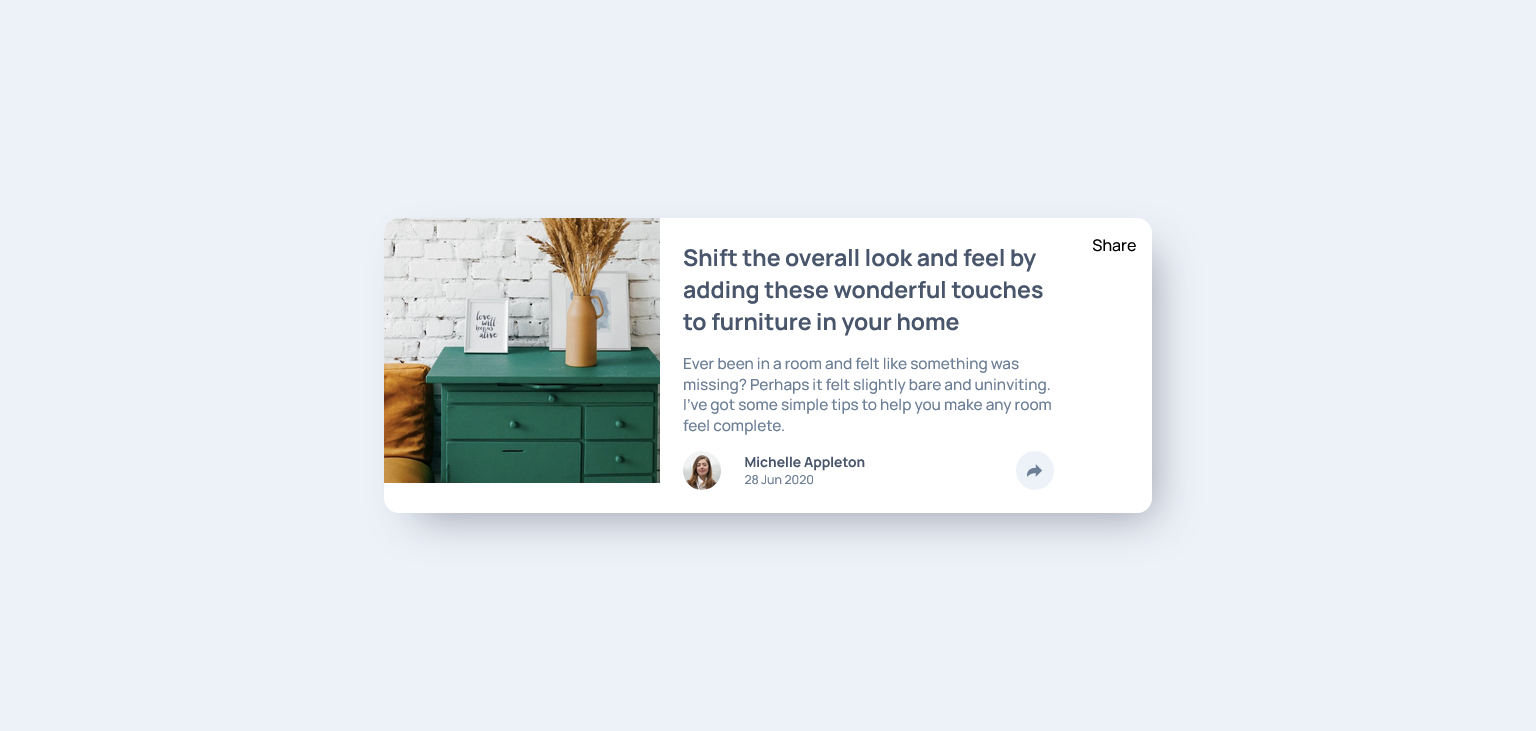
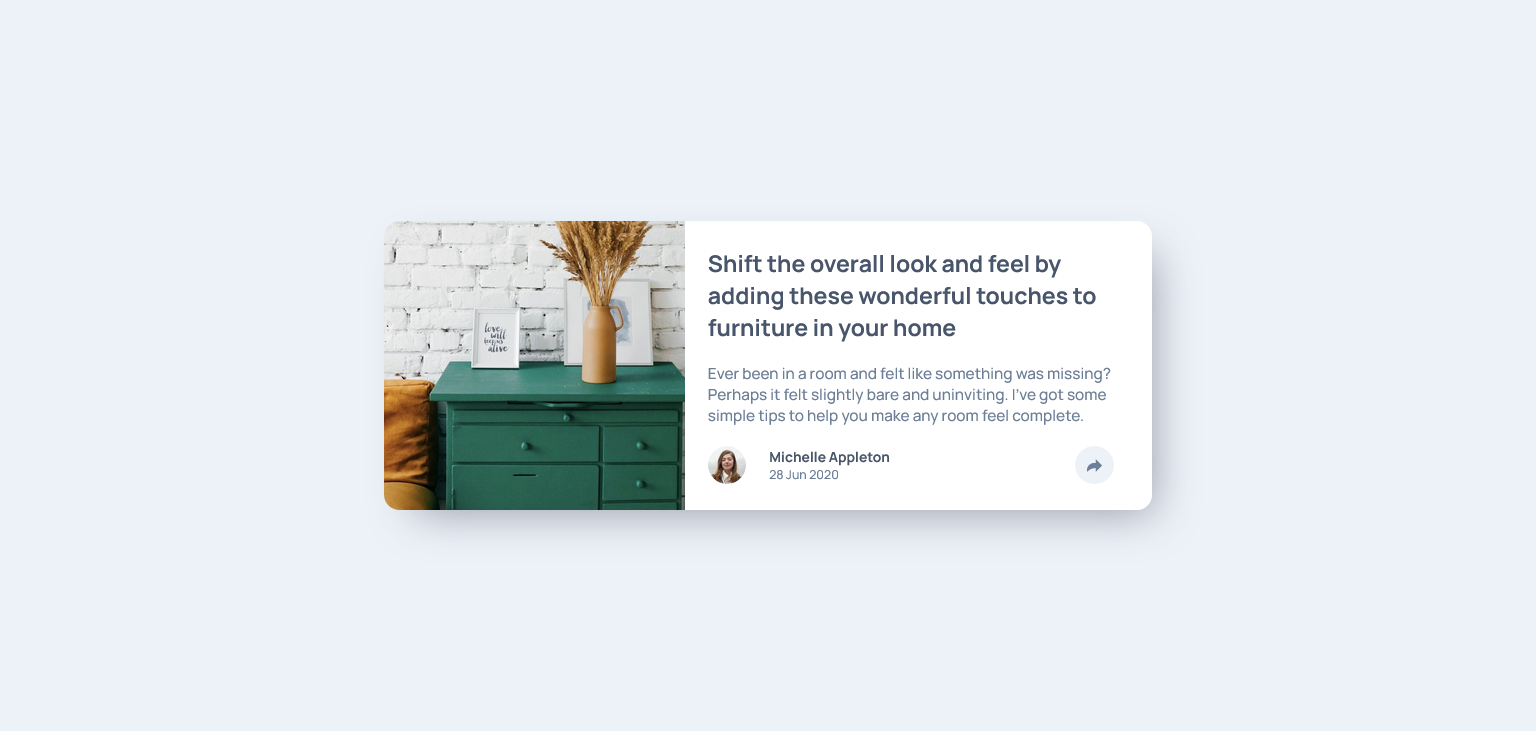
Finished website

Changed region(s): [[0.25, 0.301, 0.75, 0.7223], [0.7188, 0.3311, 0.75, 0.3611], [0.6562, 0.632, 0.6875, 0.6621]]

diff --git a/style.css b/style.css
@@ -452,6 +452,10 @@ body{
     .overflow{
         bottom: 4vw;
     }
+
+    .socialsfull{
+        display: none;
+    }
 }
 
 @media only screen and (min-width: 768px){
